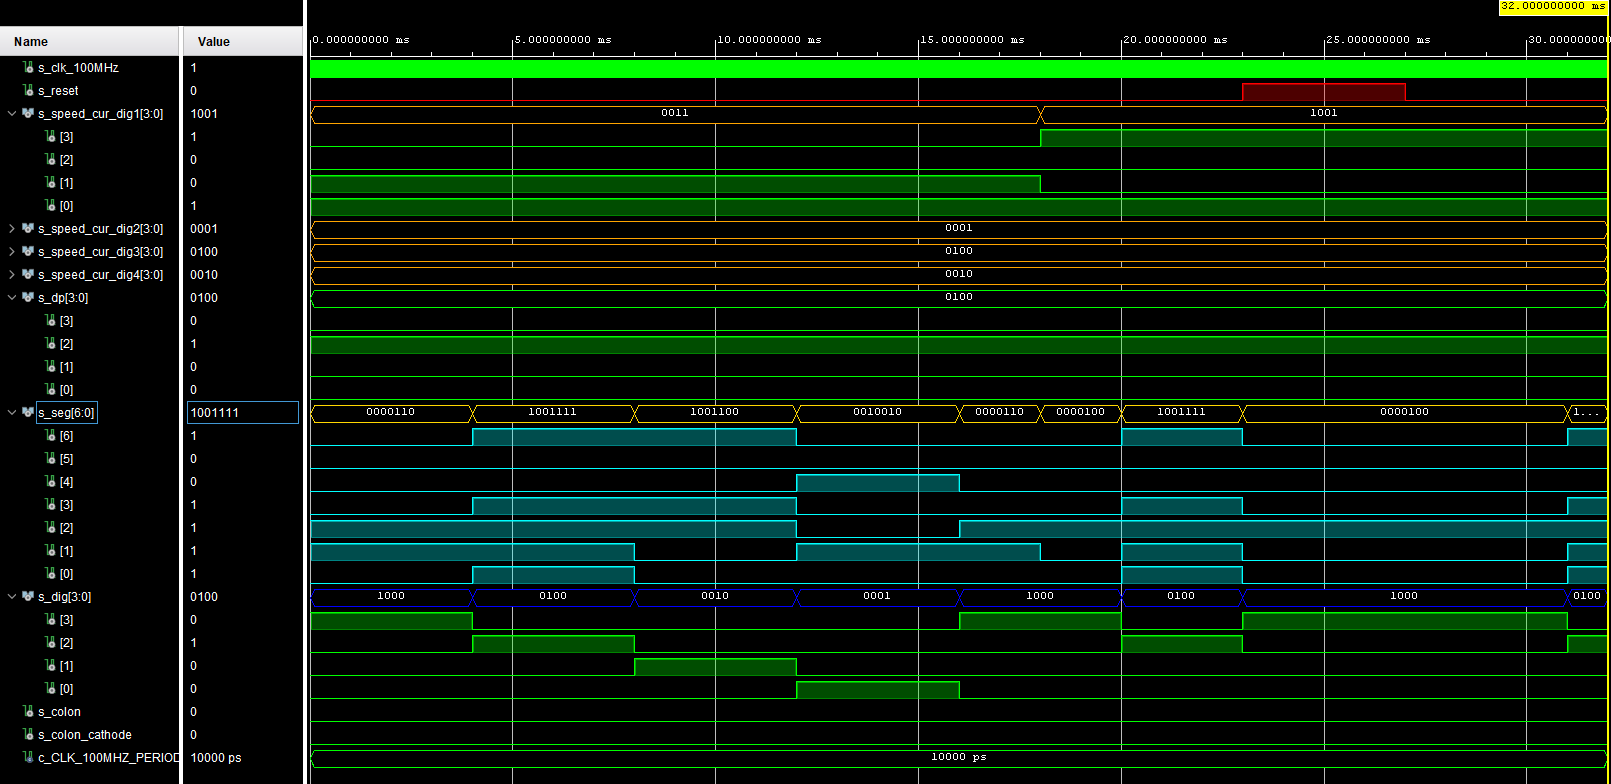
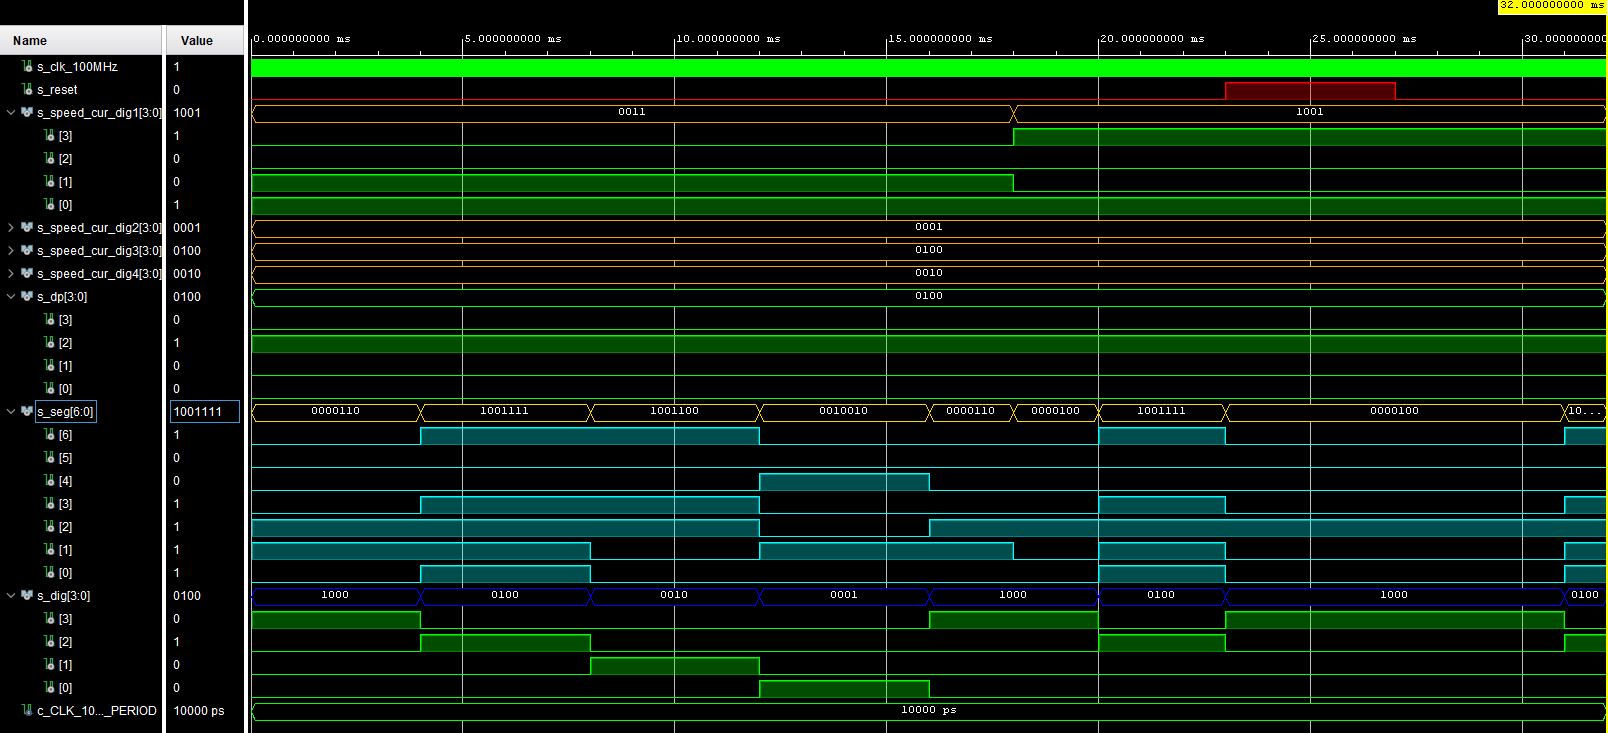
Update

diff --git a/Ruiner-multiplex+counters+display/driver_7seg_4digits_speed_cur.md b/Ruiner-multiplex+counters+display/driver_7seg_4digits_speed_cur.md
@@ -151,8 +151,6 @@ architecture testbench of tb_driver_7seg_4digits_speed_cur is
     signal s_dp              : std_logic_vector(4 - 1 downto 0);  
     signal s_seg             : std_logic_vector(7 - 1 downto 0);   
     signal s_dig             : std_logic_vector(4 - 1 downto 0);
-    signal s_colon           : std_logic;
-    signal s_colon_cathode   : std_logic;
 
 begin
     -- Connecting testbench signals with driver_7seg_4digits_speed_cur entity
@@ -168,8 +166,6 @@ begin
         speed_cur_dig4_i   => s_speed_cur_dig4,
         dp_o               => s_dp,
         seg_o              => s_seg,
-        colon_o            => s_colon,
-        colon_cathode_o    => s_colon_cathode,
         dig_o              => s_dig
     );
 

diff --git a/Ruiner-multiplex+counters+display/count_1sec.md b/Ruiner-multiplex+counters+display/count_1sec.md
@@ -21,8 +21,8 @@ end count_1sec;
 
 architecture Behavioral of count_1sec is
 
-    signal cnt_1sec : unsigned(27 - 1 downto 0) := (others => '0');
-    constant second : unsigned(27 - 1 downto 0) := "101111101011110000100000000";
+    signal cnt_1sec : unsigned(27 - 1 downto 0) := (others => '0');               -- Local counter
+    constant second : unsigned(27 - 1 downto 0) := "101111101011110000100000000"; -- 100000000 clock pulses to 1 sec
 
 begin
 
